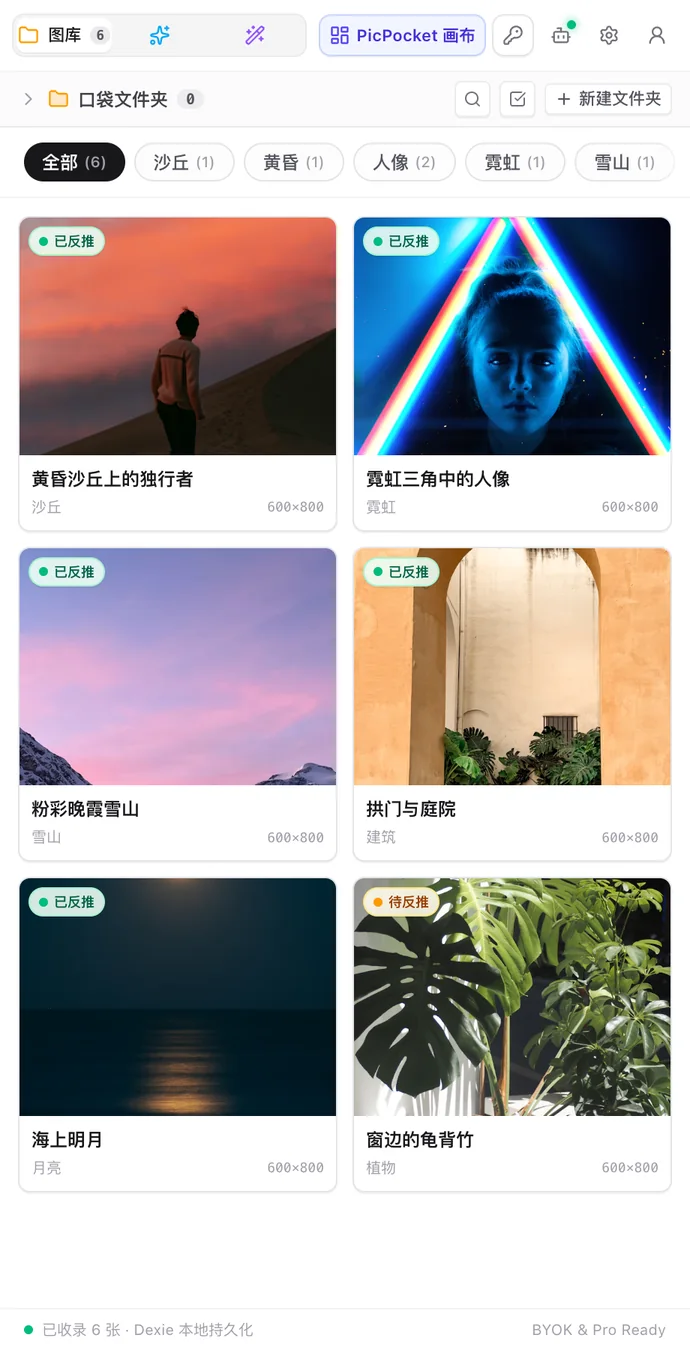
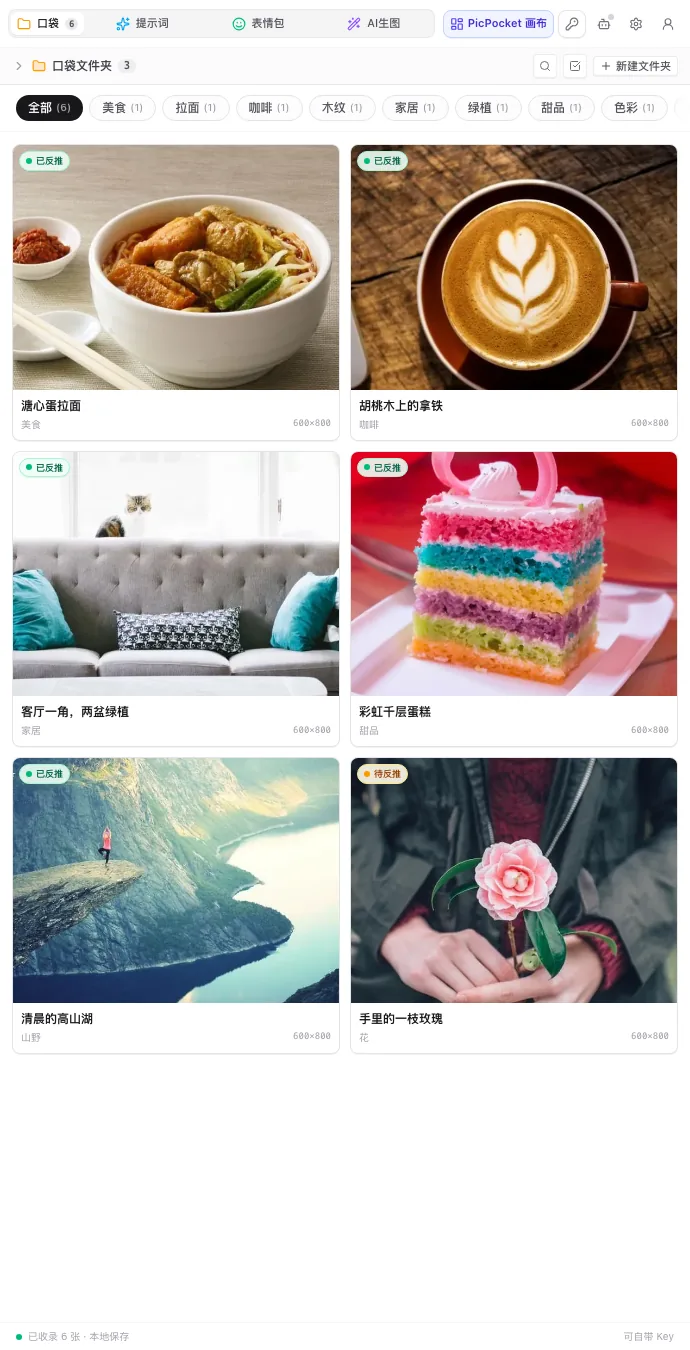
feat(website): 官网配图换成宣传片同一套素材
- cases/ 九张配图换成拉面、拿铁、客厅、彩虹蛋糕、高山湖、玫瑰那套生活照
- 「一段完整的提示词」卡片改用拿铁，提示词一并改写
- 生图卡与 MCP 示例文案跟着换（ramen / lunch）
- tour/ 六张实拍用真实本地扩展重录：口袋里 6 张新图、详情页完整提示词、生图工作台带参考图
- README 的 docs/images 同步换成同样的三张新截图

diff --git a/website/index.html b/website/index.html
@@ -1172,7 +1172,7 @@
               <div class="dots"><i></i><i></i><i></i></div>
               <div class="url">
                 <svg width="12" height="12" viewBox="0 0 24 24" fill="none" stroke="currentColor" stroke-width="2"><rect x="4" y="11" width="16" height="10" rx="2"/><path d="M8 11V7a4 4 0 0 1 8 0v4"/></svg>
-                inspiration.gallery/collections/dusk
+                inspiration.gallery/collections/lunch
               </div>
               <div class="ext-btn"><img src="/assets/icon-64.png" alt=""></div>
             </div>
@@ -1217,14 +1217,14 @@
                     <div class="asset-thumb"><img class="case-img" src="/assets/cases/dune.webp" alt="" loading="lazy" decoding="async"></div>
                     <div class="asset-meta">
                       <span class="status"><span data-l="en">Analyzed</span><span data-l="zh">已反推</span></span>
-                      <b><span data-l="en">Dusk over the dunes</span><span data-l="zh">沙丘黄昏</span></b>
+                      <b><span data-l="en">Ramen, soft-boiled egg</span><span data-l="zh">拉面 · 溏心蛋</span></b>
                       <small>Hover · 1024×1280</small>
                     </div>
                   </div>
 
                   <div class="master">
                     <div class="master-head"><span><span data-l="en">Master prompt</span><span data-l="zh">完整提示词</span></span><span class="master-copy" data-l="en">Copy</span><span class="master-copy" data-l="zh">复制</span></div>
-                    <span data-l="en">A lone traveler standing on a sand dune ridge at dusk, cinematic photograph with a moody film look, pink sunset sky and soft dusk glow, low angle with generous negative space, rule of thirds.</span><span data-l="zh">一位独行旅人站在沙丘山脊上，黄昏时分的电影感摄影，忧郁的胶片质感，粉红色晚霞与柔和暮光，低机位仰拍，大面积负空间，三分构图。</span>
+                    <span data-l="en">A bowl of ramen with a soft-boiled egg on a light wooden table, soft window light, shallow depth of field, overhead angle.</span><span data-l="zh">一碗拉面，溏心蛋，浅色木桌，柔和窗光，浅景深，俯拍角度。</span>
                   </div>
                   <div class="actions"><span><span data-l="en">Copy full prompt</span><span data-l="zh">复制完整提示词</span></span><span class="primary"><span data-l="en">Apply style &amp; generate</span><span data-l="zh">套用风格并生图</span></span></div>
                 </div>
@@ -1354,7 +1354,7 @@
               <div class="rows">
                 <div class="master">
                   <div class="master-head"><span><span data-l="en">Master prompt</span><span data-l="zh">完整提示词</span></span></div>
-                  <span data-l="en">A young woman framed by a glowing neon triangle, cinematic portrait in a low-key studio, electric blue neon with a rainbow prism edge, centered symmetry, frontal close-up.</span><span data-l="zh">被发光霓虹三角框住的年轻女子，低调影棚的电影感人像，电光蓝霓虹与彩虹棱镜边缘光，居中对称，正面特写。</span>
+                  <span data-l="en">A latte in a dark ceramic cup on a walnut table, warm window light from the left, shallow depth of field, overhead angle, quiet morning.</span><span data-l="zh">深色陶杯里的一杯拿铁，胡桃木桌面，左侧暖窗光，浅景深，俯拍角度，安静的早晨。</span>
                 </div>
                 <div class="actions"><span><span data-l="en">Copy full prompt</span><span data-l="zh">复制完整提示词</span></span><span class="primary"><span data-l="en">Apply style &amp; generate</span><span data-l="zh">套用风格并生图</span></span></div>
               </div>
@@ -1404,11 +1404,11 @@
             <h3><span data-l="en">Generate right there</span><span data-l="zh">侧边栏直接生图</span></h3>
             <p><span data-l="en">Send a reversed prompt to the generator with its reference image and get new images without leaving the page.</span><span data-l="zh">把反推出的提示词连同参考图一起送进生图台，不离开当前网页就能出图。</span></p>
             <div class="viz viz-gen" aria-hidden="true">
-              <div class="gen-input"><span data-l="en">A lone traveler on rolling sand dunes at dusk, pink and amber sky, cinematic wide shot</span><span data-l="zh">黄昏时起伏沙丘上的独行旅人，粉色与琥珀色天空，电影感宽幅构图</span><span class="caret"></span></div>
+              <div class="gen-input"><span data-l="en">Comfort food on a warm table, soft window light, overhead, editorial food photography</span><span data-l="zh">暖色桌面上的家常菜，柔和窗光，俯拍，编辑级美食摄影</span><span class="caret"></span></div>
               <div class="gen-bar"><span class="chip">3:4</span><span class="chip">gpt-image-2</span><span class="go"><span data-l="en">Generate</span><span data-l="zh">生成</span></span></div>
               <div class="gen-grid">
                 <div><img class="case-img" src="/assets/cases/dune.webp" alt="" loading="lazy" decoding="async"></div>
-                <div><img class="case-img" src="/assets/cases/dune2.webp" alt="" loading="lazy" decoding="async"></div>
+                <div><img class="case-img" src="/assets/cases/arch.webp" alt="" loading="lazy" decoding="async"></div>
                 <div class="loading"></div>
               </div>
             </div>
@@ -1439,9 +1439,9 @@
             <p><span data-l="en">A local MCP bridge lets Cursor or Claude Code search your Pocket, save prompts and generate images. You decide what each agent is allowed to do.</span><span data-l="zh">通过本地 MCP 桥接，Cursor、Claude Code 可以搜索你的口袋、保存提示词、触发生图。每个 Agent 能做什么，由你来授权。</span></p>
             <div class="viz viz-mcp" aria-hidden="true">
               <div class="agents"><span>● Connected</span><span>Cursor</span><span>Claude Code</span></div>
-              <div class="line"><span class="m">→</span> <span class="k">search_prompts_and_assets</span>(<span class="s">"dusk, dunes"</span>)</div>
+              <div class="line"><span class="m">→</span> <span class="k">search_prompts_and_assets</span>(<span class="s">"ramen, broth"</span>)</div>
               <div class="line m">  ↳ 3 assets · 5 prompts</div>
-              <div class="line"><span class="m">→</span> <span class="k">save_prompt</span>(<span class="s">"desert-dusk-v2"</span>)</div>
+              <div class="line"><span class="m">→</span> <span class="k">save_prompt</span>(<span class="s">"ramen-v2"</span>)</div>
               <div class="line m">  ↳ saved to My Vault</div>
               <div class="line"><span class="m">→</span> <span class="k">generate_and_save_asset</span>(…)</div>
               <div class="line m">  ↳ image saved to Pocket</div>
